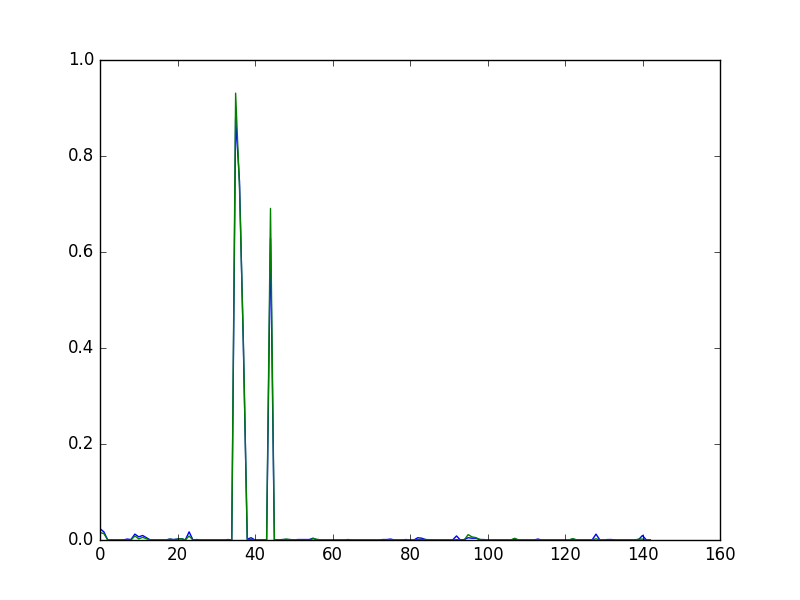
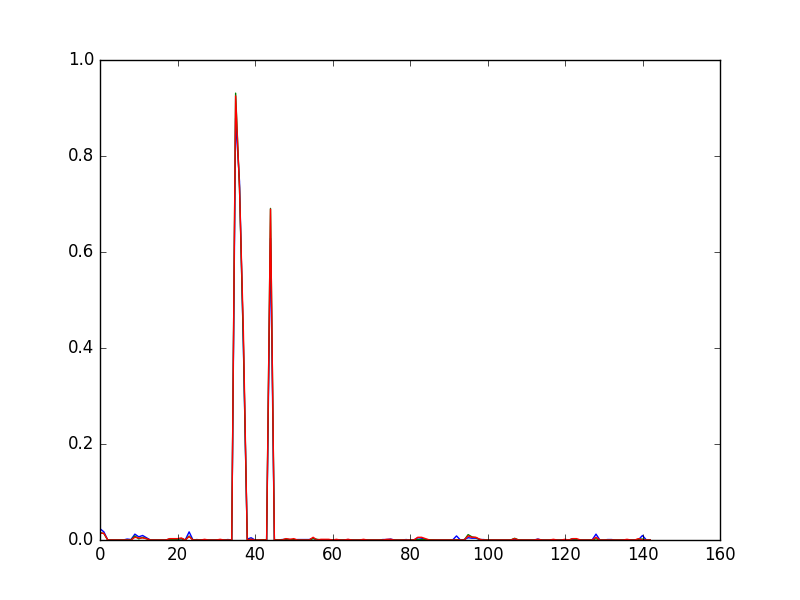
validation plots

Changed region(s): [[0.2812, 0.18, 0.3438, 0.9], [0.2188, 0.87, 0.25, 0.9], [0.1562, 0.87, 0.1875, 0.9]]

diff --git a/siddharth_standard_architecture/model2.py b/siddharth_standard_architecture/model2.py
@@ -2,6 +2,8 @@ from sklearn.svm import SVC
 import numpy as np
 import random
 import matplotlib.pyplot as plt
+from validation_nolabel_parser import *
+
 
 np.set_printoptions(threshold=np.nan)
 
@@ -11,6 +13,7 @@ X1 = np.load("positiveData")
 X0 = np.load("negativeData")
 UTG1 = np.load("positiveUTG")
 UTG0 = np.load("negativeUTG")
+validation_set = np.load("validationData")
 
 X_train = []
 X_test = []
@@ -19,42 +22,25 @@ y_test = []
 predict = []
 best_e_tags_in_positive = []
 best_e_tags_in_negative = []
+best_e_tags_in_validation = []
 clf_vector = []
 
 for i in range(0,total_q_tags):
-	z1 = X1[i]
-	z0 = X0[i]
-	np.random.shuffle(z1)
-	np.random.shuffle(z0)
-	total_sample_count = min(z1.shape[0],z0.shape[0])
-	train_sample_count = 0.7*total_sample_count
-	test_sample_count = total_sample_count - train_sample_count
-	X_train.append(np.append(z1[0:train_sample_count,:],z0[0:train_sample_count,:],axis = 0))
-	X_test.append(np.append(z1[train_sample_count:total_sample_count,:],z0[train_sample_count:total_sample_count,:],axis = 0))
-	y_train.append(np.append(np.zeros(train_sample_count),np.ones(train_sample_count)))
-	y_test.append(np.append(np.zeros(total_sample_count - train_sample_count),np.ones(total_sample_count - train_sample_count)))
-	#print X_train[i].shape, y_train[i].shape, X_test[i].shape, y_test[i].shape
-	#yo = np.divide(np.sum(z1,axis = 0),z1.shape[0])
 	yo = np.divide(np.sum(X1[i],axis = 0),X1[i].shape[0])
 	best_e_tags_in_positive.append(np.argmax(yo))
 	plt.plot(yo)
 	yo = np.divide(np.sum(X0[i],axis = 0),X0[i].shape[0])
         best_e_tags_in_negative.append(np.argmax(yo))
         plt.plot(yo)
+	yo = np.divide(np.sum(validation_set[i],axis = 0),validation_set[i].shape[0])
+        best_e_tags_in_validation.append(np.argmax(yo))
+        plt.plot(yo)
 	fig1 = plt.gcf()
         fig1.savefig("plots/"+str(i))
 	plt.clf()
 
 
-print np.array(best_e_tags_in_negative) == np.array(best_e_tags_in_positive)
-
-#for i in range(0,total_q_tags):
-	#clf = SVC()
-	#clf.fit(X_train[i],y_train[i])
-	#clf_vector.append(clf)
-	#predict.append(clf.predict(X_test[i]))
-	#print np.sum(predict[i] == y_test[i])
-
+"""
 negative_grp_count_best_tag = []
 for i in range(0,total_q_tags):
 	x = X0[i]
@@ -84,17 +70,4 @@ for i in range(0,total_q_tags):
 	fig1.savefig("good_answers/positive_examples/"+str(i))
 	plt.clf()
 
-	plt.hist(UTG0[i][:,0],50)
-	fig1 = plt.gcf()
-	fig1.savefig("upvotes/negative_examples/"+str(i))
-	plt.clf()
-
-	plt.hist(UTG0[i][:,1],50)
-	fig1 = plt.gcf()
-	fig1.savefig("total_answers/negative_examples/"+str(i))
-	plt.clf()
-
-	plt.hist(UTG0[i][:,2],50)
-	fig1 = plt.gcf()
-	fig1.savefig("good_answers/negative_examples/"+str(i))
-	plt.clf()
+"""
